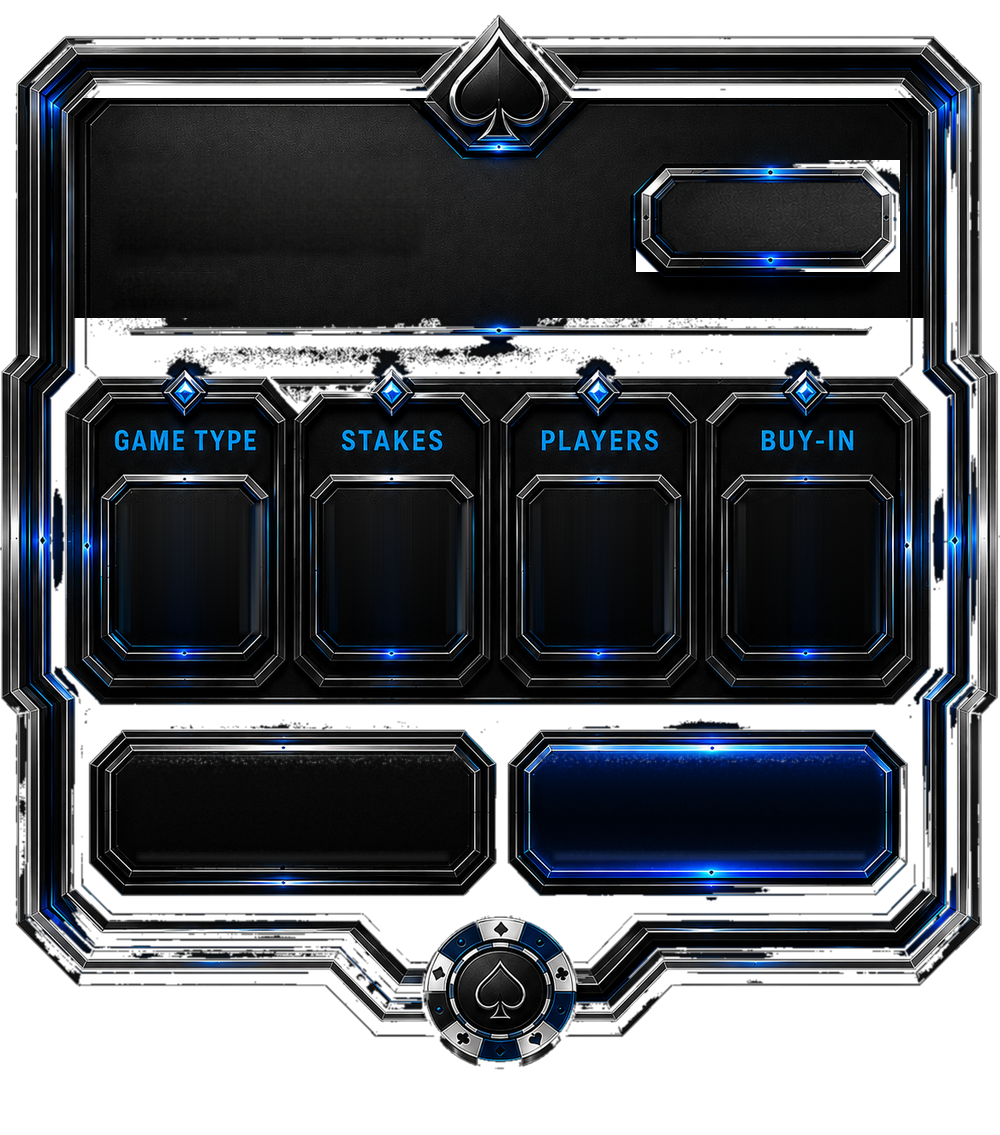
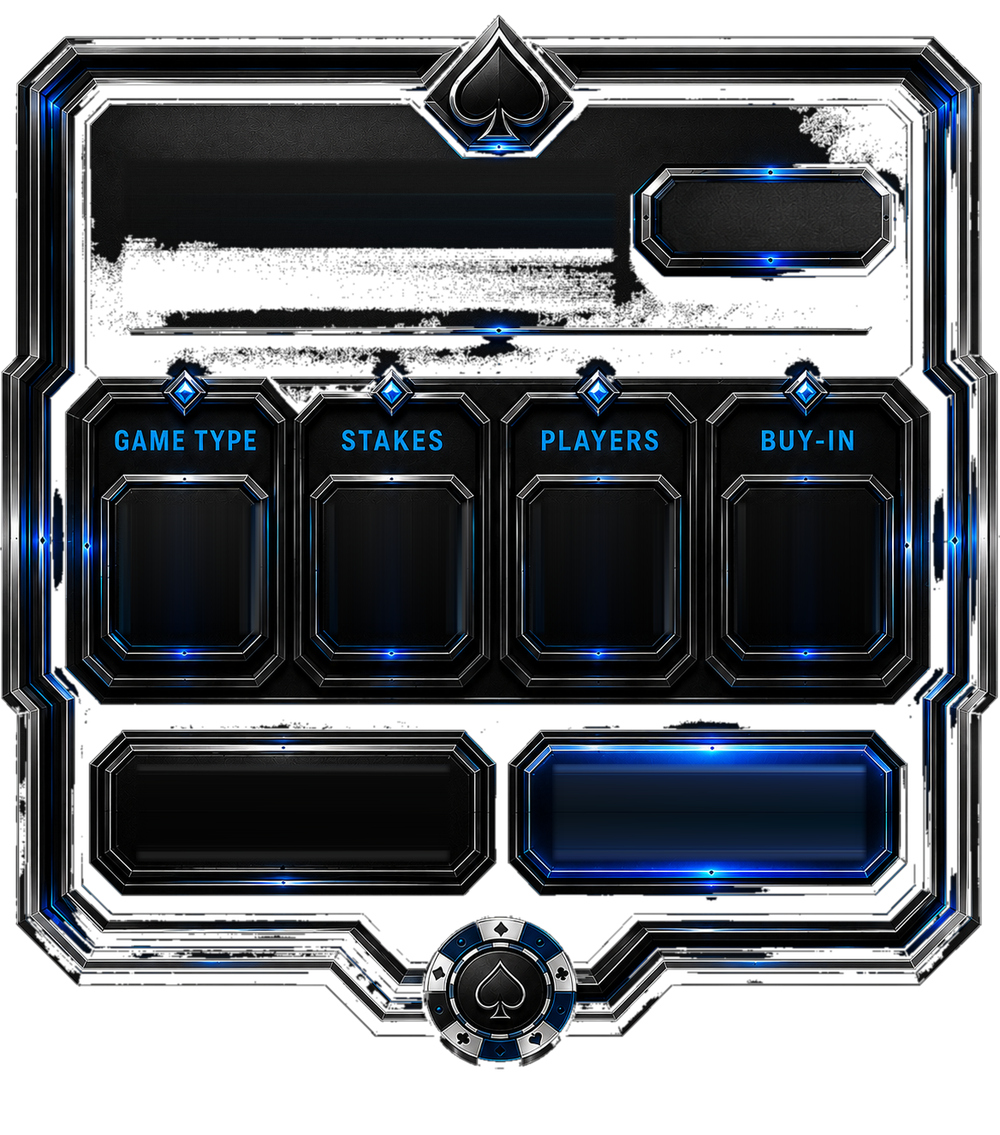
fix(lobby): give corrected PLO artwork its own permanent URL

diff --git a/tests/arena-game-card-system.test.ts b/tests/arena-game-card-system.test.ts
@@ -1,5 +1,8 @@
 import { readFileSync } from 'node:fs';
+import { createHash } from 'node:crypto';
 import { resolve } from 'node:path';
+import { createElement } from 'react';
+import { renderToStaticMarkup } from 'react-dom/server';
 import { describe, expect, it } from 'vitest';
 import type {
   LobbyEntry,
@@ -18,6 +21,7 @@ import {
   validateArenaGameCardRegistry,
 } from '../src/components/lobby/game-cards/arenaGameCardRegistry';
 import type { LobbyRowContext } from '../src/components/lobby/lobbyCardContext';
+import { SpadePloCard } from '../src/components/lobby/game-cards/SpadePloCard';
 
 const ROOT = resolve(__dirname, '..');
 const CARD_CSS = readFileSync(
@@ -133,6 +137,34 @@ function lobbyContext(overrides: Partial<LobbyRowContext> = {}): LobbyRowContext
 }
 
 describe('Arena game-card creation', () => {
+  it('preserves the PLO chassis bytes already served under the original permanent URL', () => {
+    const bytes = readFileSync(
+      resolve(ROOT, 'public/assets/club-buttons/game-cards/plo/spade-plo-premium-v1/chassis.png')
+    );
+    expect(createHash('sha256').update(bytes).digest('hex')).toBe(
[1 lines of base64/hex data omitted]
+    );
+  });
+
+  it('renders the approved replacement through its new URL and the same registry entry', () => {
+    const file = 'plo/spade-plo-premium-v1/chassis-b0b05b302c99.png';
+    const bytes = readFileSync(resolve(ROOT, 'public/assets/club-buttons/game-cards', file));
+    expect(createHash('sha256').update(bytes).digest('hex')).toBe(
[1 lines of base64/hex data omitted]
+    );
+    const asset = resolveArenaGameCardTemplate({ family: 'plo', presentation: 'mobile' }).skin
+      .mobile.asset;
+    expect(asset).toBe(`${import.meta.env.BASE_URL}assets/club-buttons/game-cards/${file}`);
+    const html = renderToStaticMarkup(
+      createElement(SpadePloCard, {
+        data: arenaGameCardDataFromEntry(cashEntry('PLO')),
+        actions: { primaryLabel: 'Join Table', secondaryLabel: 'View Table' },
+      })
+    );
+    expect(html).toContain(`src="${asset}"`);
+    expect(html).not.toContain('spade-plo-premium-v1/chassis.png');
+  });
+
   it('automatically selects all five card families from existing lobby data', () => {
     expect(arenaGameCardDataFromEntry(tournamentEntry('mtt', 200)).family).toBe('mtt');
     expect(arenaGameCardDataFromEntry(cashEntry('NLH')).family).toBe('nlh');
@@ -180,7 +212,7 @@ describe('Arena game-card creation', () => {
       plo: {
         id: 'spade-plo-premium-v1',
         version: 1,
-        mobileAsset: /plo\/spade-plo-premium-v1\/chassis\.png$/,
+        mobileAsset: /plo\/spade-plo-premium-v1\/chassis-b0b05b302c99\.png$/,
       },
       spins: {
         id: 'shark-spins-premium-v1',

diff --git a/src/components/lobby/game-cards/SpadePloCard.tsx b/src/components/lobby/game-cards/SpadePloCard.tsx
@@ -35,7 +35,7 @@ const assetRoot = `${import.meta.env.BASE_URL}assets/club-buttons/game-cards/plo
 export const SPADE_PLO_CANVAS: LayeredCanvas = { width: 1177, height: 1337 };
 
 export const SPADE_PLO_ASSETS = {
-  chassis: `${assetRoot}/chassis.png`,
+  chassis: `${assetRoot}/chassis-b0b05b302c99.png`,
   reference: `${assetRoot}/source/approved-reference.png`,
 } as const;
 

diff --git a/src/components/lobby/game-cards/arenaGameCardRegistry.ts b/src/components/lobby/game-cards/arenaGameCardRegistry.ts
@@ -294,7 +294,7 @@ const spadePloV1 = skin(
   presentation(
     'plo',
     'mobile',
-    'plo/spade-plo-premium-v1/chassis.png',
+    'plo/spade-plo-premium-v1/chassis-b0b05b302c99.png',
     '1177 / 1337',
     280,
     'spade-premium-v1'

diff --git a/docs/changelog/2026-09-14-plo-artwork-keeps-its-published-url.md b/docs/changelog/2026-09-14-plo-artwork-keeps-its-published-url.md
@@ -1,0 +1,7 @@
+# PLO artwork keeps its published URL
+
+The September 14 PLO card correction replaced the bytes behind an existing permanent asset URL. The static origin correctly rejected that publication because older tabs still depend on those bytes.
+
+The corrected artwork now uses `chassis-b0b05b302c99.png`. Both the rendered PLO card and the mobile card registry request that URL. The original `chassis.png` is restored from the last served source, and the replacement image is retained byte-for-byte. Card geometry, labels, actions, and artwork are unchanged.
+
[1 lines of base64/hex data omitted]
